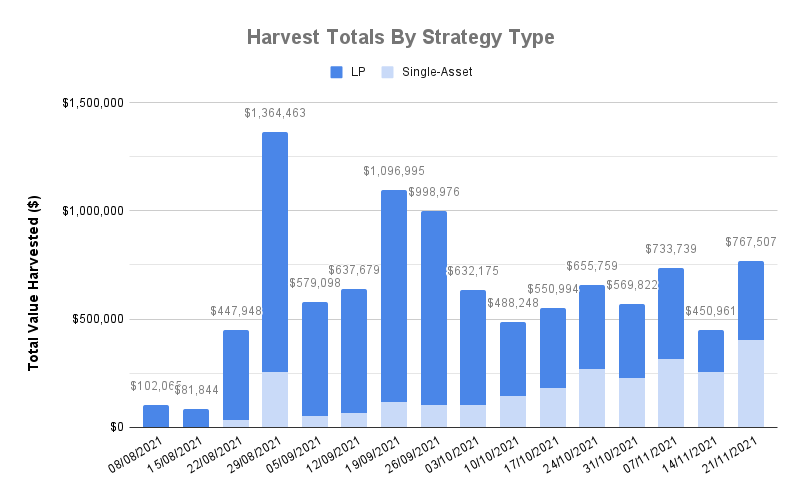
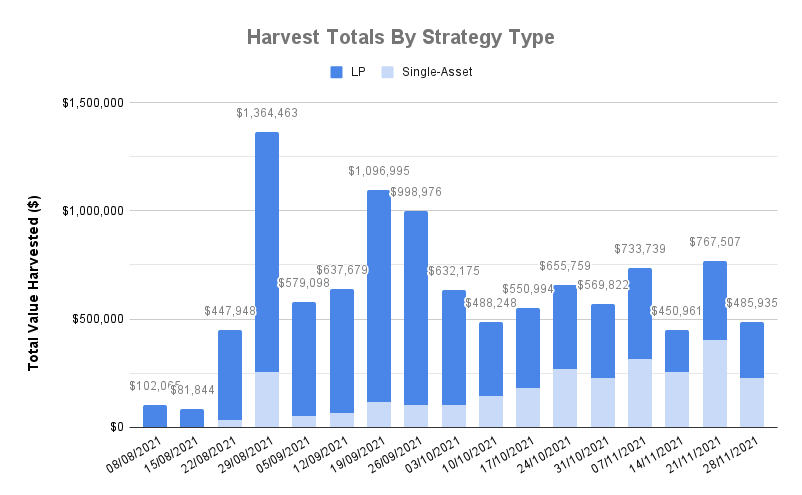
GitBook: [#502] Updated Harvest Stats

Changed region(s): [[0.1247, 0.2727, 0.9663, 0.9697], [0.2805, 0.2121, 0.3741, 0.2424]]

diff --git a/resources/harvest-stats.md b/resources/harvest-stats.md
@@ -54,6 +54,6 @@ Weekly snapshots are taken every Sunday, and this page is updated every Monday.
 {% endtab %}
 
 {% tab title="AXIAL" %}
-_Will be added next week!_
+![](<../.gitbook/assets/AXIAL Harvested.png>)
 {% endtab %}
 {% endtabs %}
